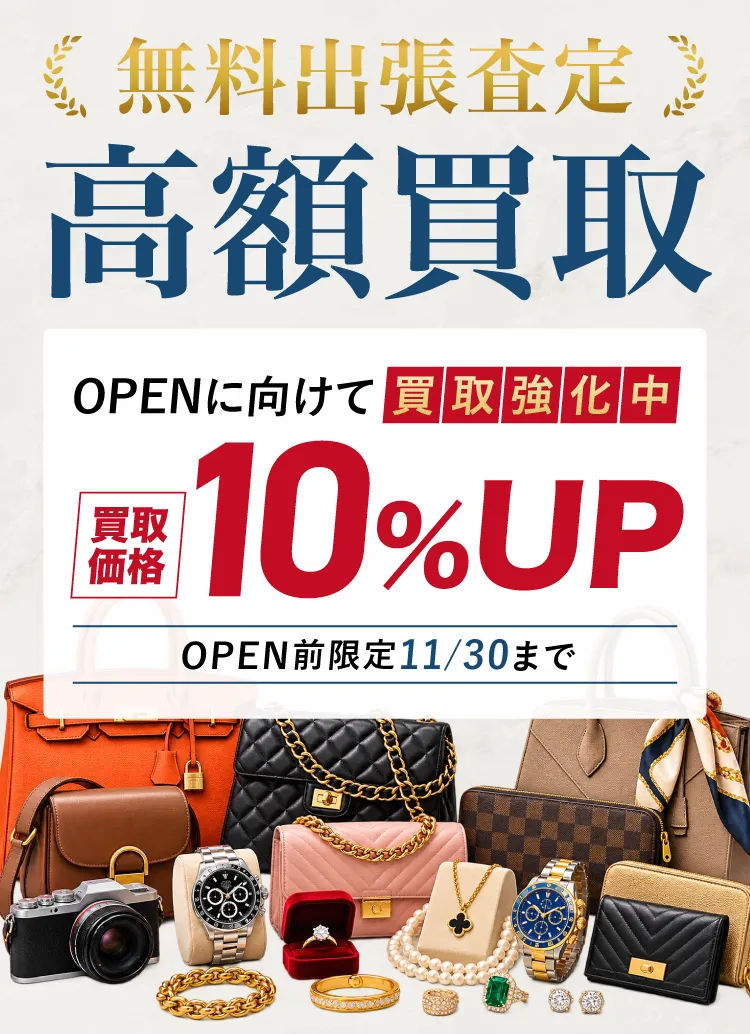
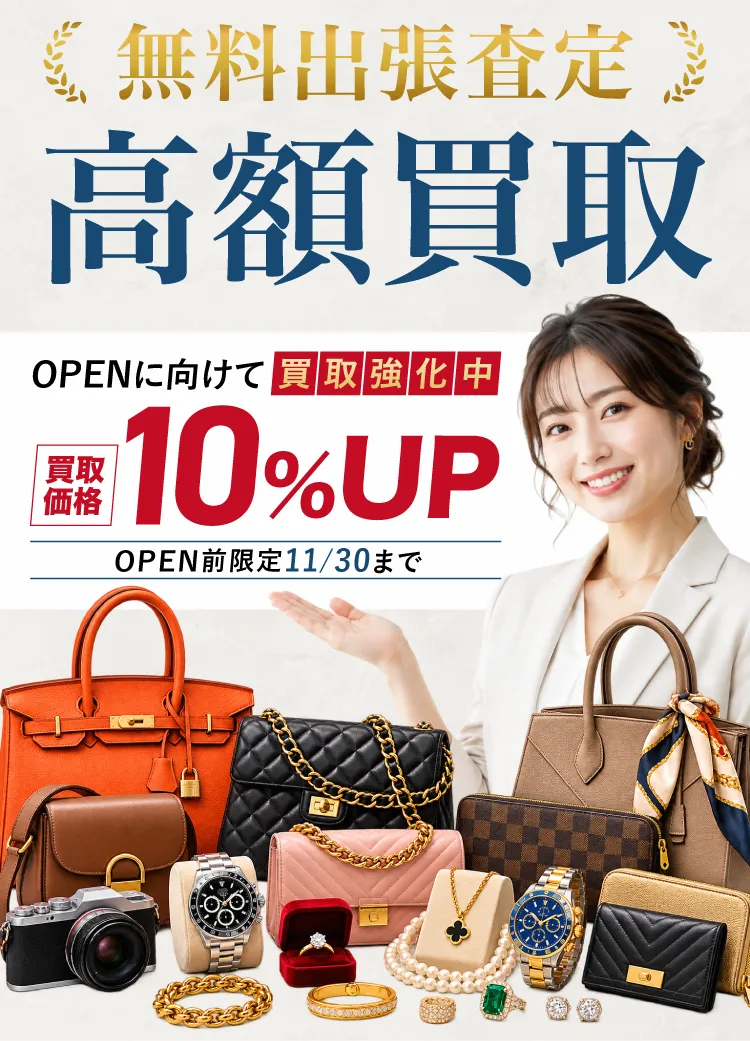
Replace responsive hero artwork

diff --git a/app/page.tsx b/app/page.tsx
@@ -25,7 +25,7 @@ const asset = {
   categoryPossibilitySp: "/images/category-possibility-sp.png",
   fvProducts: "/images/fv-products.webp",
   fvSp: "/images/fv-sp.webp",
-  fvPc: "/images/fv-pc.png",
+  fvPc: "/images/fv-pc.webp",
   whyWoman: "/images/why-woman.webp",
   campaign10Up: "/images/campaign-10up.webp",
   lineIcon: "/images/line-icon.png",
@@ -231,7 +231,7 @@ function Hero() {
           <h1 id="hero-title" className="sr-only">無料出張査定で高額買取</h1>
           <picture className="hero-fv-image">
             <source media="(min-width: 700px)" srcSet={asset.fvPc} />
-            <img src={asset.fvSp} alt="無料出張査定・高額買取。OPEN前限定で買取価格10%UP、11月30日まで" width="750" height="1066" />
+            <img src={asset.fvSp} alt="無料出張査定・高額買取。OPEN前限定で買取価格10%UP、11月30日まで" width="750" height="1041" />
           </picture>
         </div>
         <div className="hero-trust"><span>全国展開の質屋・リユースチェーン</span><i aria-hidden="true" /><strong>京都初出店！</strong></div>
